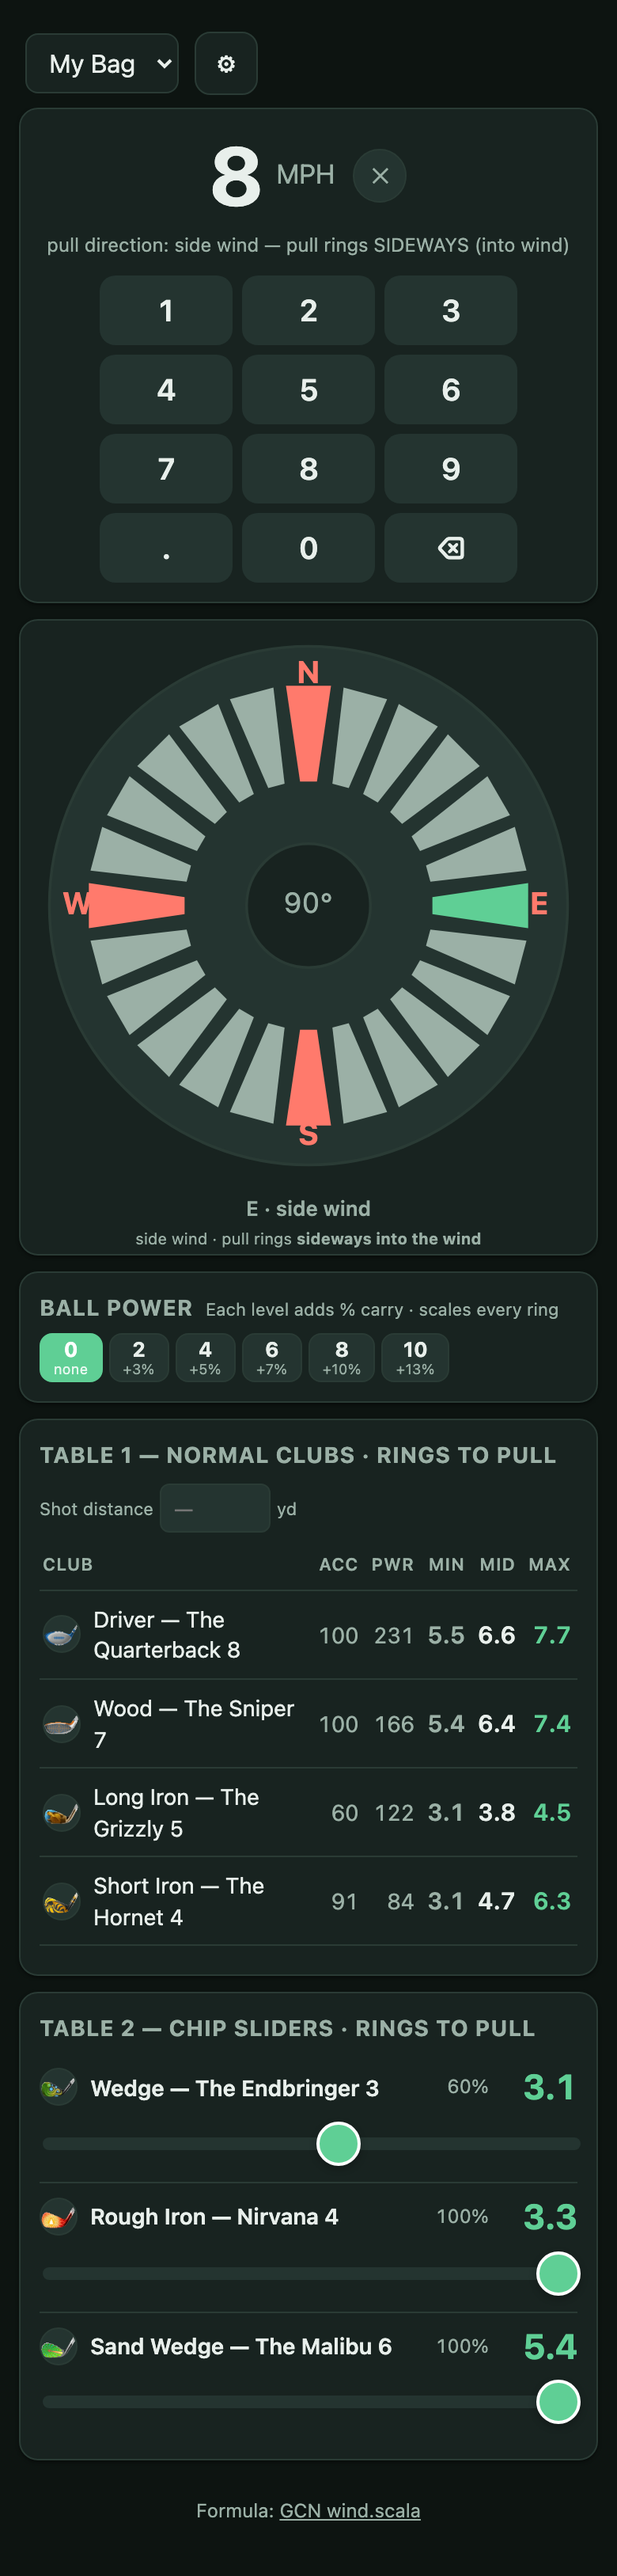
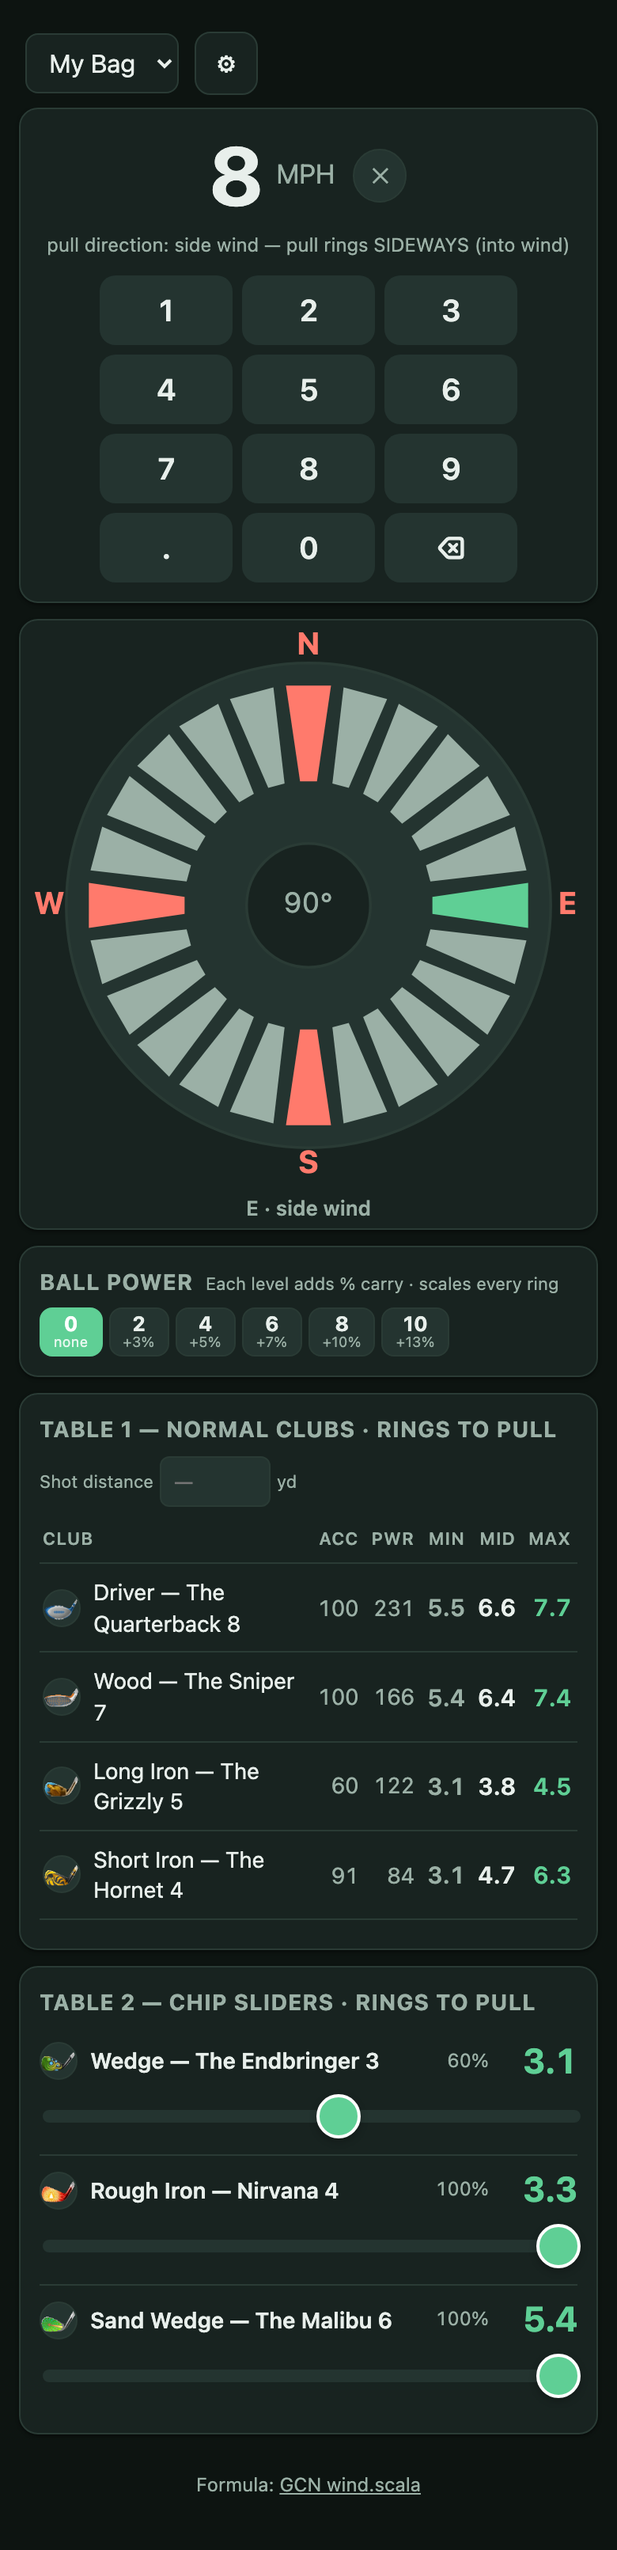
Fix cardinal labels overlapping arrows; remove redundant compass hint
User reported: thick wedges blocked the N/E/S/W letters, and the
"side wind · pull rings sideways into the wind" caption duplicated
the pull-direction guidance already shown in the wind card, just
adding vertical bulk.

- Cardinal label radius 82 → 92, outside the new arrow base at r=78.
  Letters are now clearly clear of the wedges.
- Face circle slightly smaller (r=92→86) so labels sit on the dark
  background, not on the face.
- Removed .compass-hint element. The wind card already says
  "pull direction: side wind — pull rings SIDEWAYS (into wind)" so
  the duplicate caption was just consuming vertical space.
- Removed the JS branch that wrote to that element; refreshDirReadouts
  now only updates #dir-name (in wind card) and #compass-dir
  (the "60° · side wind" line below the dial).
- BP card auto-matches the now-shorter compass card height via
  align-items: stretch — no code change needed there.

SW bumped to gc-wind-v8.

diff --git a/index.html b/index.html
@@ -454,7 +454,6 @@
             <div class="card compass-wrap" data-area="compass">
               <svg class="compass" id="compass" viewBox="-100 -100 200 200"></svg>
               <div class="compass-dir small dim" id="compass-dir">side wind</div>
-              <div class="compass-hint">tap = wind direction · center = side</div>
             </div>
 
             <div class="card bp-card" data-area="ballpower">
@@ -752,9 +751,12 @@
     function renderCompass() {
       const svg = $("#compass");
       const inputs = state.inputs;
-      let html = `<circle class="face" cx="0" cy="0" r="92"/>`;
-      // cardinal labels (N/E/S/W) in red
-      const cards = [["N",0,-82],["E",82,0],["S",0,82],["W",-82,0]];
+      // Slightly smaller face circle so the cardinal labels sit clear
+      // of the arrow bases.
+      let html = `<circle class="face" cx="0" cy="0" r="86"/>`;
+      // cardinal labels (N/E/S/W) outside the arrows so they're not
+      // blocked by the wedges. The arrows extend to r=78; labels at 92.
+      const cards = [["N",0,-92],["E",92,0],["S",0,92],["W",-92,0]];
       for (const [t,x,y] of cards) html += `<text class="cardinal-label" x="${x}" y="${y}">${t}</text>`;
       // 24 arrows at 15° steps. Slightly chunkier than before so each
       // wedge is easier to spot and the tap target reads visually.
@@ -1200,34 +1202,21 @@
       updateChipLiveValues();
     }
 
-    // Update direction-derived UI: category label in the wind card,
-    // compass-dir below the dial, and the dynamic hint that tells the
-    // user WHICH WAY to pull rings. Magnitude (the ring count itself)
-    // is always full because rings are the universal displacement
-    // compensator regardless of wind direction.
+    // Update direction-derived UI: pull-direction guidance in the wind
+    // card (#dir-name) and the compass-dir name + category below the
+    // dial. Magnitude is direction-independent because rings are a
+    // universal displacement compensator (pull forward/back/sideways).
     function refreshDirReadouts() {
       const deg = state.inputs.dir;
       const cat = dirCategory(deg);
-      // pull-direction summary in the wind card
       const dirName = $("#dir-name");
       if (dirName) {
-        if (cat === "headwind")      dirName.textContent = "headwind — pull rings FORWARD (past target)";
-        else if (cat === "tailwind") dirName.textContent = "tailwind — pull rings BACK (short of target)";
+        if (cat === "headwind")       dirName.textContent = "headwind — pull rings FORWARD (past target)";
+        else if (cat === "tailwind")  dirName.textContent = "tailwind — pull rings BACK (short of target)";
         else if (cat === "side wind") dirName.textContent = "side wind — pull rings SIDEWAYS (into wind)";
         else                          dirName.textContent = cat + " — pull at the wind angle";
       }
       $("#compass-dir").textContent = compassName(deg) + " · " + cat;
-      const hintEl = $(".compass-hint");
-      if (!hintEl) return;
-      if (cat === "headwind") {
-        hintEl.innerHTML = 'headwind · ball flies short — pull rings <strong>forward</strong> (or raise slider)';
-      } else if (cat === "tailwind") {
-        hintEl.innerHTML = 'tailwind · ball flies long — pull rings <strong>backward</strong> (or lower slider)';
-      } else if (cat === "side wind") {
-        hintEl.innerHTML = 'side wind · pull rings <strong>sideways into the wind</strong>';
-      } else {
-        hintEl.textContent = "tap where the in-game wind arrow points · center = side";
-      }
     }
 
     function onBallPower(bp) {

diff --git a/sw.js b/sw.js
@@ -3,7 +3,7 @@
 //   - Navigations (HTML): network-first with cache fallback → always fresh online,
 //     but works offline. Avoids stale UI after deploys.
 //   - Static assets (clubs.js, icons, manifest): cache-first.
-const CACHE = "gc-wind-v7";
+const CACHE = "gc-wind-v8";
 const SHELL = [
   "./",
   "./index.html",
